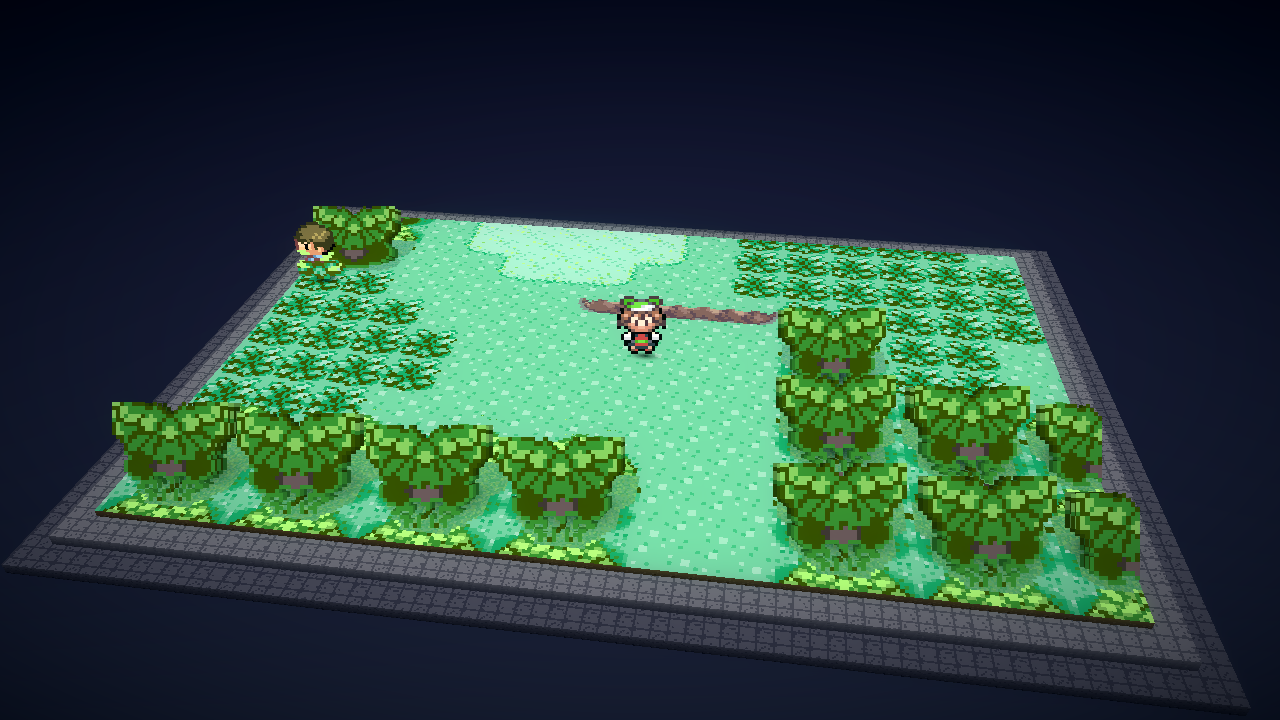
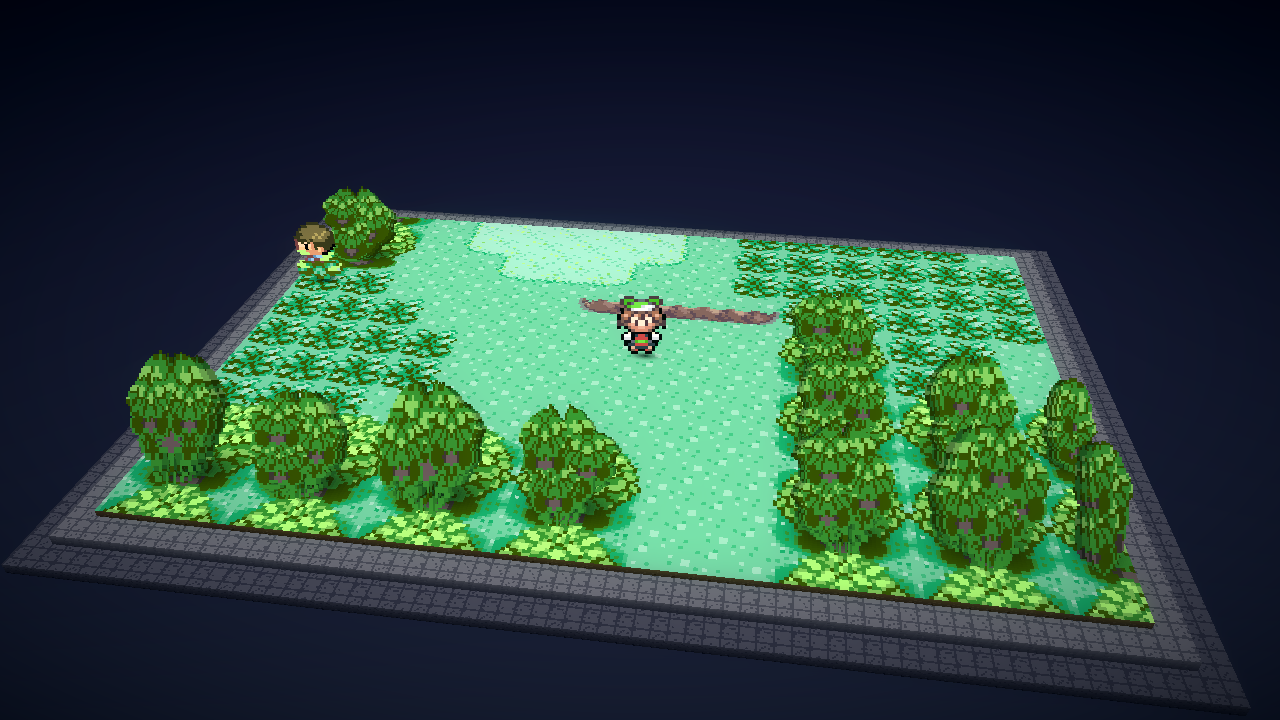
Restore procedural tree cards and patch-based ground repair

Changed region(s): [[0.5938, 0.3972, 0.9062, 0.825], [0.0625, 0.4889, 0.5, 0.7639], [0.2188, 0.2444, 0.3438, 0.3972]]

diff --git a/gba_diorama/relief.py b/gba_diorama/relief.py
@@ -107,44 +107,72 @@ def _inpaint_nearest(image: np.ndarray, mask: np.ndarray) -> np.ndarray:
     return out
 
 
+def _patch_sources(known: np.ndarray, patch: int) -> np.ndarray:
+    """Return top-left coordinates where a fully known patch fits."""
+
+    ok = known.copy()
+    for dy in range(patch):
+        for dx in range(patch):
+            if not dy and not dx:
+                continue
+            shifted = np.zeros_like(known)
+            shifted[dy:, dx:] = known[: known.shape[0] - dy, : known.shape[1] - dx]
+            ok &= shifted
+    return ok
+
+
 def _inpaint_ring(
     image: np.ndarray,
     mask: np.ndarray,
     components: list[CanopyComponent],
 ) -> np.ndarray:
-    """Fill each footprint from a ring of nearby ground pixels.
+    """Fill each cleared footprint with patches of nearby ground texture.
 
-    Sampling the immediate boundary picks up the tree's own shadow and turns
-    the hole into a flat teal rectangle.  A wider ring reaches actual grass and
-    keeps its speckled texture.
+    A flat median fill leaves a smooth glowing puddle where the tree was.
+    Copying small patches from the surrounding grass preserves its speckle,
+    palette and local shading, so the cleared ground reads as terrain rather
+    than a hole.
     """
 
     out = image.copy()
+    patch = 4
+    known = ~mask
+    valid = _patch_sources(known, patch)
+    valid_coords = np.argwhere(valid)
+    if not len(valid_coords):
+        return out
     for component in components:
         x0, y0, x1, y1 = component.bbox
         local = np.zeros(mask.shape, dtype=bool)
         local[y0:y1, x0:x1] = component.mask
-        fill = _morph(local, erode=False, iterations=2)
-        ring = _morph(fill, erode=False, iterations=10) & ~_morph(
-            fill, erode=False, iterations=2
-        )
-        ring &= ~mask
-        pixels = image[ring, :3]
-        if not len(pixels):
+        fill = _morph(local, erode=False, iterations=2) & ~mask
+        if not fill.any():
             continue
-        # Filter out extreme dark shadow/outline pixels to sample clean terrain:
-        if len(pixels) > 10:
-            lum = pixels.mean(axis=-1)
-            bright = lum > np.percentile(lum, 15)
-            if bright.any():
-                pixels = pixels[bright]
+        # Prefer source patches close to the component so the fill matches the
+        # local terrain (path, grass, ledge) instead of a distant biome.
+        pad = 24
+        near = valid_coords[
+            (valid_coords[:, 0] >= max(0, y0 - pad))
+            & (valid_coords[:, 0] <= min(mask.shape[0] - patch, y1 + pad))
+            & (valid_coords[:, 1] >= max(0, x0 - pad))
+            & (valid_coords[:, 1] <= min(mask.shape[1] - patch, x1 + pad))
+        ]
+        sources = near if len(near) else valid_coords
         rng = np.random.default_rng((x0 * 73856093) ^ (y0 * 19349663))
-        picks = rng.integers(0, len(pixels), size=int(fill.sum()))
-        base = np.median(pixels, axis=0)
-        # Smoothly blend base terrain with texture variations, gently shaded
-        # into undergrowth so it reads cleanly without muddy confetti.
-        fill_rgb = 0.70 * base + 0.30 * pixels[picks]
-        out[fill, :3] = np.clip(fill_rgb * 0.85, 0, 255).astype(np.uint8)
+        for by in range(y0, y1, patch):
+            for bx in range(x0, x1, patch):
+                target = fill[by : by + patch, bx : bx + patch]
+                if not target.any():
+                    continue
+                sy, sx = sources[int(rng.integers(0, len(sources)))]
+                source = image[sy : sy + patch, sx : sx + patch, :3]
+                block = out[by : by + patch, bx : bx + patch, :3]
+                block[target] = source[: target.shape[0], : target.shape[1]][target]
+        # Slight darkening reads as the shadowed undergrowth left behind the
+        # lifted canopy without turning the footprint into a flat block.
+        out[fill, :3] = np.clip(
+            out[fill, :3].astype(np.float32) * 0.90, 0, 255
+        ).astype(np.uint8)
         out[fill, 3] = 255
     return out
 
@@ -616,12 +644,47 @@ def detect_procedural_objects(
     return components
 
 
-def make_side_view_card(component: CanopyComponent) -> np.ndarray | None:
-    """Build a side-view tree card from the game's authentic sprite pixels.
+def _draw_canopy_lobe(
+    out: np.ndarray,
+    texture: np.ndarray,
+    canopy_h: int,
+    cx: float,
+    cy: float,
+    rx: float,
+    ry: float,
+    *,
+    mirror: bool = False,
+) -> None:
+    """Draw one oval of real canopy pixels into a side-view card."""
 
-    Preserves the authentic pixel art of the tree (canopy and trunk)
-    extracted from the ROM, with deterministic subtle framing variation
-    seeded by the component bbox.
+    height, width = texture.shape[:2]
+    x0 = max(0, int(cx - rx))
+    x1 = min(out.shape[1], int(cx + rx) + 1)
+    y0 = max(0, int(cy - ry))
+    y1 = min(out.shape[0], int(cy + ry) + 1)
+    for y in range(y0, y1):
+        ny = (y + 0.5 - cy) / max(ry, 1.0)
+        for x in range(x0, x1):
+            nx = (x + 0.5 - cx) / max(rx, 1.0)
+            if nx * nx + ny * ny > 1.0:
+                continue
+            sx = int((nx * 0.5 + 0.5) * (width - 1))
+            if mirror:
+                sx = width - 1 - sx
+            sy = min(canopy_h - 1, max(0, int((ny * 0.5 + 0.5) * (canopy_h - 1))))
+            src = texture[sy, sx]
+            if src[3] > 0:
+                out[y, x] = src
+
+
+def make_side_view_card(component: CanopyComponent) -> np.ndarray | None:
+    """Build a side-view tree procedurally from the game's own canopy pixels.
+
+    There is no per-tree sprite table and no hand-placed trunk.  The component
+    bbox seeds a deterministic RNG; that RNG varies the crown proportions and
+    the number/placement of overlapping lobes.  Every opaque pixel still comes
+    from the source canopy/trunk art.  The crown is stretched vertically so the
+    top-down footprint reads as a standing tree instead of a squat bush.
     """
 
     if component.texture is None or component.canopy_height <= 0:
@@ -629,6 +692,7 @@ def make_side_view_card(component: CanopyComponent) -> np.ndarray | None:
     texture = component.texture
     height, width = texture.shape[:2]
     canopy_h = min(component.canopy_height, height)
+    trunk = texture[canopy_h:height]
     if canopy_h < 4 or width < 4:
         return None
 
@@ -641,13 +705,56 @@ def make_side_view_card(component: CanopyComponent) -> np.ndarray | None:
     ) & 0xFFFFFFFF
     rng = np.random.default_rng(seed)
 
-    pad_top = int(rng.integers(0, 2))
-    pad_side = int(rng.integers(0, 2)) if width <= (x1 - x0) else 0
+    # Keep the card inside the source footprint horizontally; grow it upward
+    # so the silhouette has tree proportions.  Oversizing the crown made
+    # adjacent cards overlap and left the cleared footprint visible.
+    out_w = max(10, min(96, int(round(width * rng.uniform(0.92, 1.02)))))
+    crown_h = max(18, min(160, int(round(canopy_h * rng.uniform(1.20, 1.55)))))
+    trunk_h = max(3, int(round(max(1, height - canopy_h) * rng.uniform(0.7, 1.0))))
+    out = np.zeros((crown_h + trunk_h, out_w, 4), dtype=np.uint8)
 
-    out_h = height + pad_top
-    out_w = width + pad_side * 2
-    out = np.zeros((out_h, out_w, 4), dtype=np.uint8)
-    out[pad_top : pad_top + height, pad_side : pad_side + width] = texture
+    # Central mass plus 2-4 satellite lobes.  Jitter and mirroring are seeded
+    # by the bbox, so neighbouring trees do not share an identical silhouette.
+    lobes: list[tuple[float, float, float, float, bool]] = [
+        (0.50, 0.48, 0.34, 0.46, False)
+    ]
+    count = int(rng.integers(2, 5))
+    for index in range(count):
+        angle = 2.0 * np.pi * index / count + rng.uniform(-0.35, 0.35)
+        cx = 0.50 + 0.20 * np.cos(angle) + rng.uniform(-0.03, 0.03)
+        cy = 0.50 + 0.20 * np.sin(angle) + rng.uniform(-0.03, 0.03)
+        rx = 0.20 + rng.uniform(0.0, 0.08)
+        ry = 0.22 + rng.uniform(0.0, 0.08)
+        lobes.append((cx, cy, rx, ry, bool(rng.integers(0, 2))))
+
+    for cx, cy, rx, ry, mirror in lobes:
+        _draw_canopy_lobe(
+            out,
+            texture,
+            canopy_h,
+            out_w * cx,
+            crown_h * cy,
+            out_w * rx,
+            crown_h * ry,
+            mirror=mirror,
+        )
+
+    # Actual trunk pixels, cropped to their real horizontal extent and scaled.
+    if trunk_h > 0 and trunk.size:
+        trunk_pixels = trunk[..., 3] > 0
+        if trunk_pixels.any():
+            _, xs = np.nonzero(trunk_pixels)
+            trunk = trunk[:, xs.min() : xs.max() + 1]
+        tw = max(6, int(round(out_w * rng.uniform(0.22, 0.30))))
+        tx0 = (out_w - tw) // 2
+        for y in range(trunk_h):
+            sy = min(trunk.shape[0] - 1, int(y / trunk_h * trunk.shape[0]))
+            for x in range(tw):
+                sx = min(trunk.shape[1] - 1, int(x / tw * trunk.shape[1]))
+                src = trunk[sy, sx]
+                if src[3] > 0:
+                    out[crown_h + y, tx0 + x] = src
+
     return out
 
 

diff --git a/README.md b/README.md
@@ -22,15 +22,20 @@ low-detail backdrop in this scene), composited the backdrop into transparent
 holes, tightly cropped the player out of the OBJ layer to ground the sprite at its
 feet, and rendered it as an upright billboard on a tilted plinth. It also detects
 world props and trees across layers: multi-layer metatiles (e.g. BG1 elevated
-treetops + BG2 trunks/bases) are unified before segmentation, and watershed
-component expansion preserves the authentic handcrafted pixel art without
-mangling or distorting the silhouette. A procedural detector can also segment
-arbitrary custom ROM hack tilesets (such as autumn, snowy, or alien palettes)
-by discovering dominant ground terrain without hardcoded color constraints.
-Each tree is rendered as an upright card capped to its footprint and rendered
-with three depth slices (a darker, slightly wider card behind the main card for
-canopy thickness), while the cleared ground underneath is smoothly inpainted.
-No synthetic trunk, sprite atlas, or hand-placed tree is used.
+treetops + BG2 trunks/bases) are unified before segmentation, and a procedural
+detector can segment arbitrary custom ROM hack tilesets (such as autumn, snowy,
+or alien palettes) by discovering dominant ground terrain without hardcoded
+color constraints.
+
+Each tree becomes an upright side-view card generated from its own canopy and
+trunk pixels. A seeded RNG varies the crown proportions and overlapping lobes,
+and the crown is stretched vertically so the top-down footprint reads as a
+standing tree instead of a squat bush. Cards are capped to their source
+footprint and rendered with three depth slices (a darker, slightly wider card
+behind the main card for canopy thickness). The cleared footprint is filled
+with small patches of the surrounding ground texture, preserving the map's
+grass, path, and palette instead of leaving a flat glowing hole. No synthetic
+trunk, sprite atlas, or hand-placed tree is used.
 
 The layers are decoded independently before meshing, which is the part that
 makes a 3D2D composite possible:

diff --git a/docs/AGENT-BOARD.md b/docs/AGENT-BOARD.md
@@ -114,3 +114,22 @@ player/NPC are upright, and the path runs below the ledge.
   `/tmp/opencode/agentb-fixed.png`: ledge above player, upright player/NPC.
 - Committing only the board + orientation correction; Agent B's detector and
   visual changes remain uncommitted for review.
+
+### 2026-11-04 — Agent A — tree cards + ground repair
+
+- Integrated Agent B's procedural detector, tight OBJ crop, and unified
+  BG1/BG2 metatile path; commit `ad2696a`.
+- Removed the full-mask label regrowth in `detect_canopies` and the
+  bottom-row square stretch in `make_side_view_card`; both caused tall
+  column-like cards. Profile now uses `open_iterations = 5`.
+- Restored the seeded procedural side-view card (`_draw_canopy_lobe`) with a
+  taller crown (1.20–1.55× canopy height) so top-down tree art reads as a
+  standing tree.
+- Replaced the flat ring-median inpaint with a 4×4 patch fill sampled from
+  nearby ground, preserving grass/path speckle and palette.
+- Ignored BG1 in `profiles/emerald-route101.toml`: its sparse fringe art
+  rendered as floating leaf cards. BG2 still owns the full trees.
+- `python3 -m pytest -q` → **47 passed**; render
+  `/tmp/opencode/tall-cards.png`, copied to
+  `docs/images/emerald-route101.png`.
+- Next: 3D houses (P5b) and denser forest separation.
